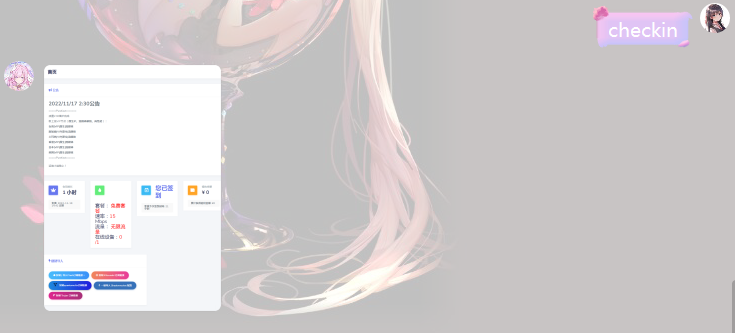
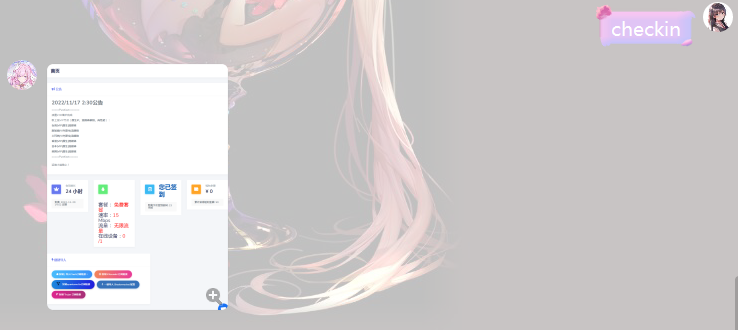
添加截图

diff --git a/README.md b/README.md
@@ -28,8 +28,10 @@ linux无图形界面需要将第七行代码`headless=False`改为`headless=True
 
 - nonebot使用
 
-  将**checkin.py**文件放在bot根目录，nonebot_plugin_PFvpn_checkin文件夹放置在src/plugins文件夹中，按注释修改**__init__.py**文件即可
+  将**checkin.py**文件放在bot根目录，nonebot_plugin_PFvpn_checkin文件夹放置在src/plugins文件夹中，按注释修改**init.py**文件即可
 
   脚本会定时执行，也可手动进行签到，签到完成后会将页面截图发送给设定的QQ
 
   ![截图](截图.png)
+
+![网页截图](网页截图.png)
